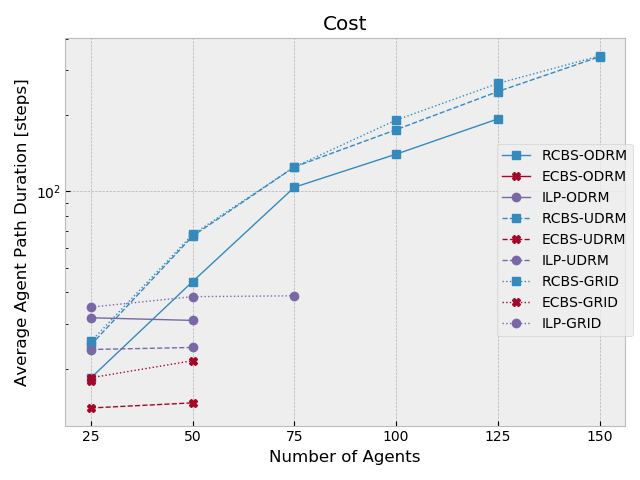
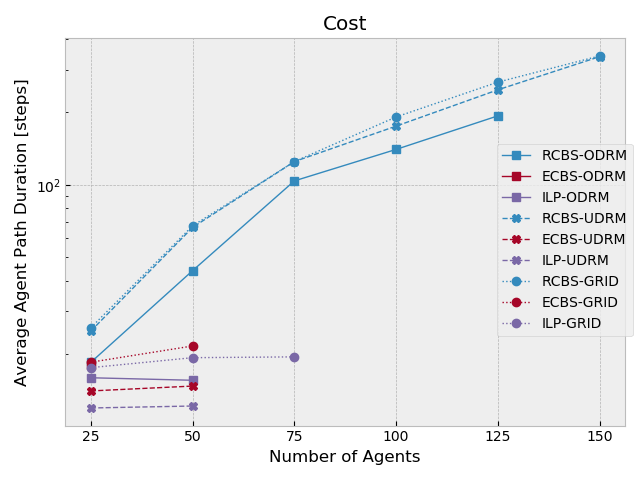
markers per graph to differentiate single reults with no lines

diff --git a/roadmaps/adamsmap_eval/script/eval_centralized_pathfinding_plot.py b/roadmaps/adamsmap_eval/script/eval_centralized_pathfinding_plot.py
@@ -142,7 +142,7 @@ if __name__ == "__main__":
                 to_plot,
                 label=combination_name,
                 color=colors[i_p],
-                marker=markers[i_p],
+                marker=markers[i_g],
                 linestyle=linestyles[i_g],
                 linewidth=1)
             lines.append(line)
